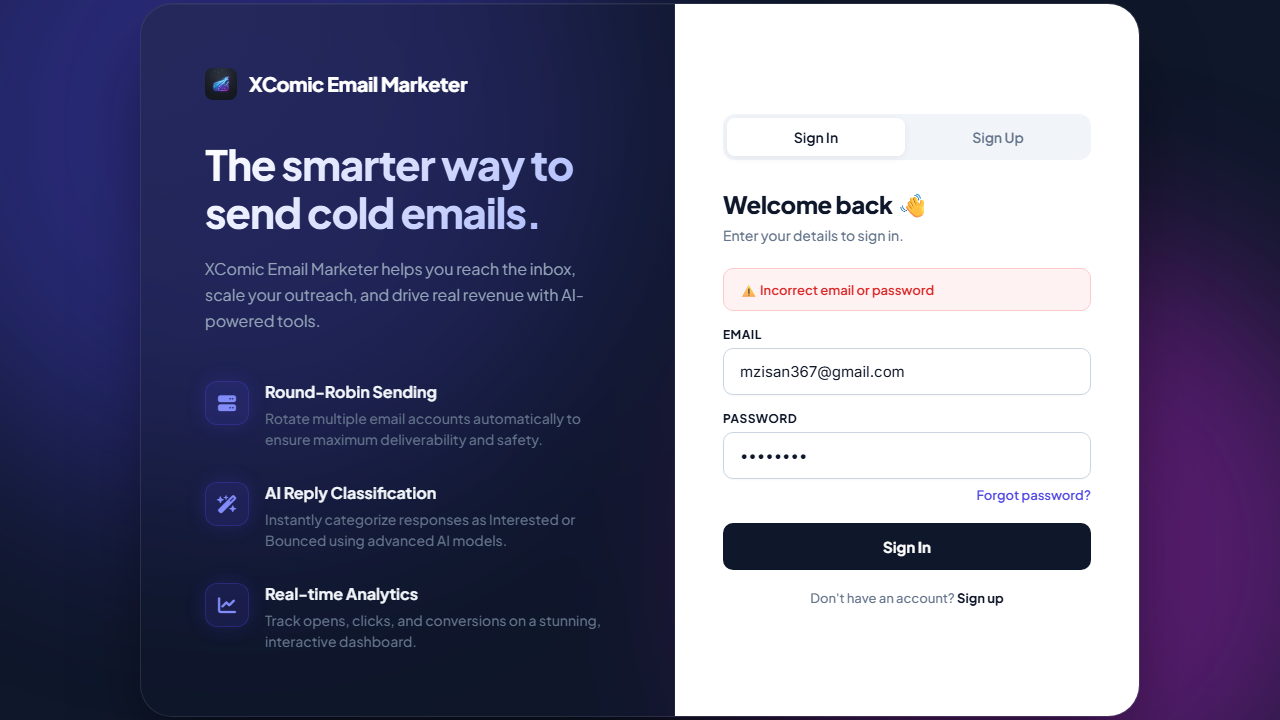
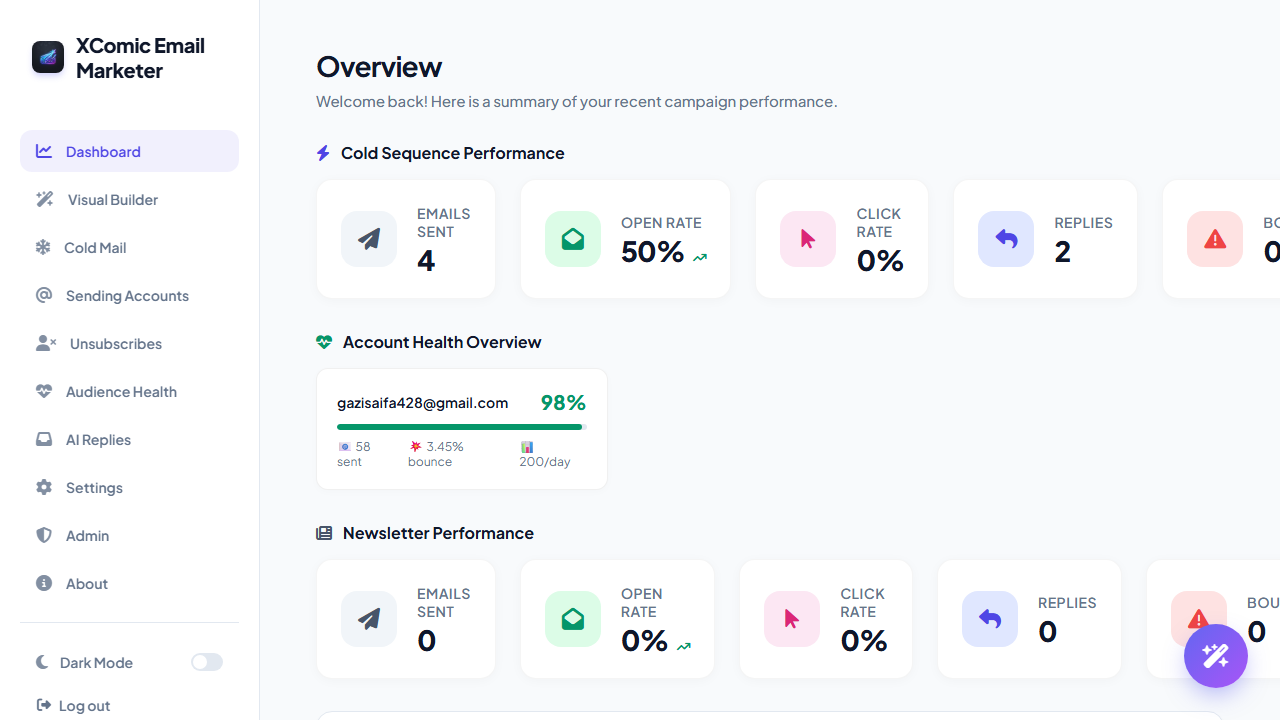
Update test_ui.py with robust JS evaluation and test artifacts

diff --git a/test_ui.py b/test_ui.py
@@ -8,8 +8,8 @@ async def main():
         print("Navigating to login...")
         await page.goto("https://xcomic.xyz")
         await page.wait_for_selector("#login-email")
-        await page.fill("#login-email", "[email redacted]")
-        await page.fill("#login-pass", "password")
+        await page.fill("#login-email", "[email redacted]")
+        await page.fill("#login-pass", "76008972")
         await page.click("#login-btn")
         print("Logged in, waiting...")
         await page.wait_for_timeout(3000)
@@ -24,11 +24,13 @@ async def main():
         await page.wait_for_timeout(1000)
         
         await page.screenshot(path="builder.png")
-        print("Filling out cold mail form...")
-        await page.fill("#inst-body", "Test Body UI Playwright")
-        await page.fill("#campaign-delay-min", "0")
-        await page.fill("#campaign-delay-max", "0")
-        await page.fill("#seq-leads", "[email redacted], Test Name, Test Co")
+        print("Filling out cold mail form using robust JS evaluation...")
+        await page.evaluate("document.getElementById('inst-subject').value = 'Test Subject UI Playwright';")
+        await page.evaluate("document.getElementById('inst-body').value = 'Test Body UI Playwright';")
+        await page.evaluate("document.getElementById('campaign-delay-min').value = '0';")
+        await page.evaluate("document.getElementById('campaign-delay-max').value = '0';")
+        await page.evaluate("document.getElementById('seq-leads').value = '[email redacted], Test Name, Test Co';")
+        await page.evaluate("if(window.saveLeads) window.saveLeads('seq-leads');")
         
         print("Clicking Launch Campaign...")
         await page.click("#inst-send-seq-btn")